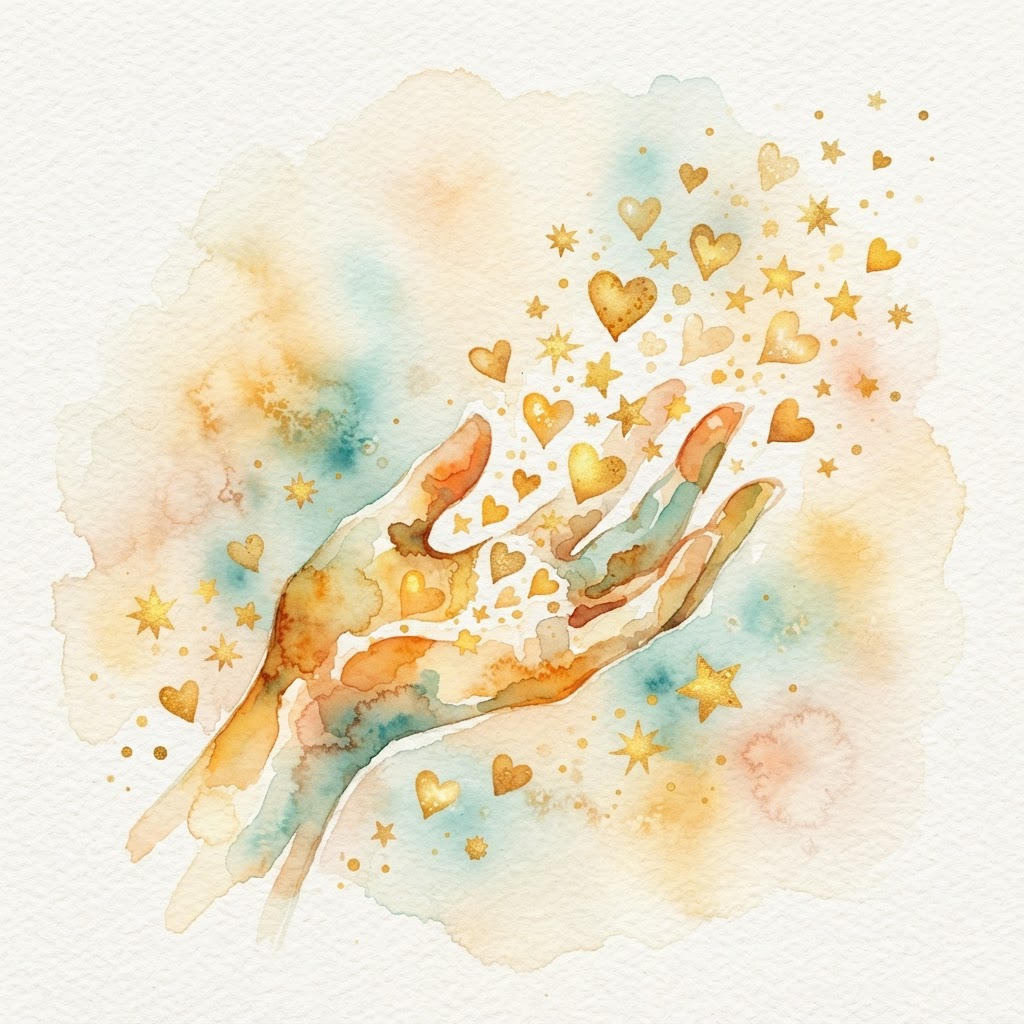
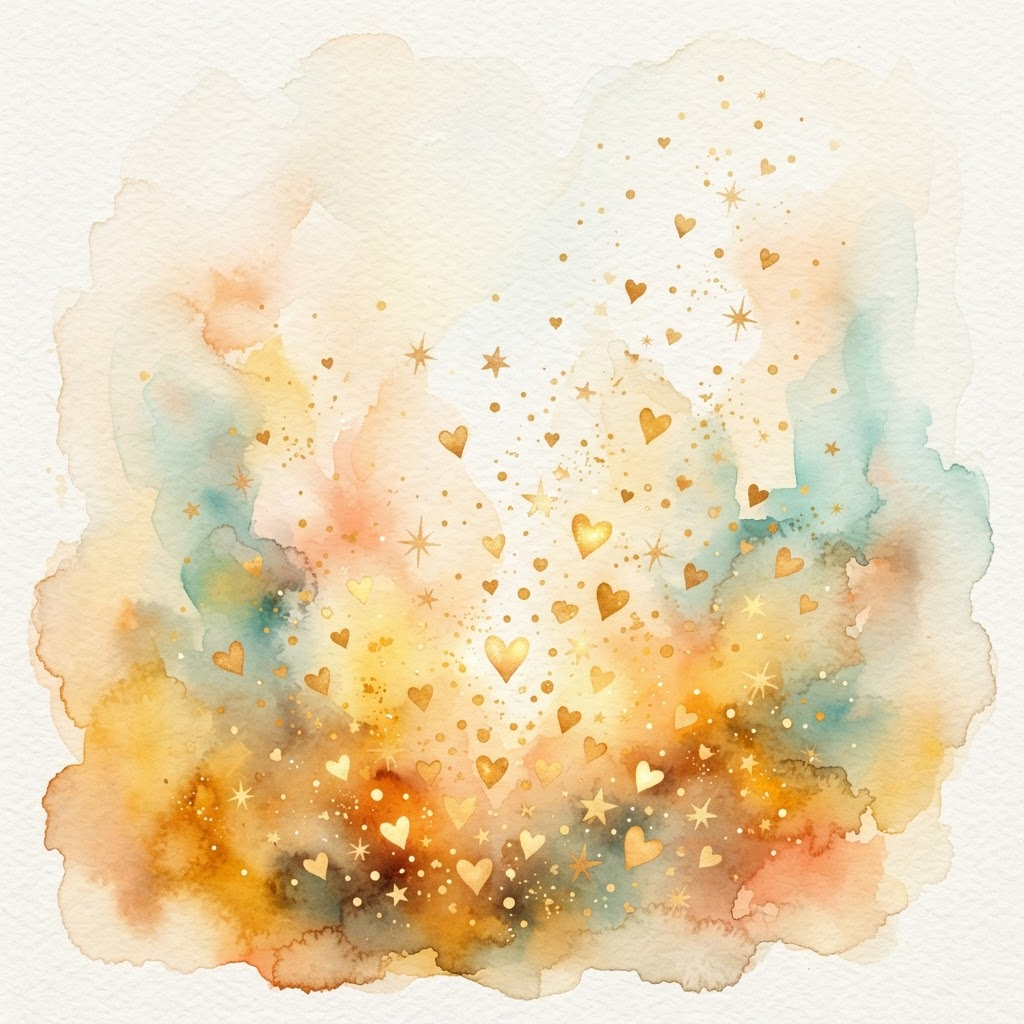
feat: update hadith images to new WC format

diff --git a/lib/data/hadiths.ts b/lib/data/hadiths.ts
@@ -383,7 +383,7 @@ export const hadiths: Hadith[] = [
     id: 'drinking-manners',
     title: 'Этикет питья',
     readingTime: '2 мин',
-    image: '/images/hadiths/good-manners.jpg',
+    image: '/images/hadiths/wc-drinking-manners.png',
     hadithText: 'Абу Къатада (да будет доволен им Аллах) передаёт, что пророк ﷺ сказал: «Когда кто-либо из вас будет пить, пусть не дышит в сосуд».',
     explanation: 'Ислам учит нас даже правилам питья. Когда пьёшь, не нужно дышать прямо в стакан — лучше отодвинуть его. Это чисто и красиво, а также защищает от передачи болезней. Это касается любых напитков, не только воды.',
     source: 'Аль-Бухари, Муслим'
@@ -392,7 +392,7 @@ export const hadiths: Hadith[] = [
     id: 'eating-manners',
     title: 'Скромность в еде',
     readingTime: '2 мин',
-    image: '/images/hadiths/good-manners.jpg',
+    image: '/images/hadiths/wc-eating-manners.png',
     hadithText: 'Абу Джухайфа (да будет доволен им Аллах) передаёт, что посланник Аллаха ﷺ сказал: «Я во время еды не облокачиваюсь».',
     explanation: 'Пророк ﷺ ел скромно и не облокачивался, как делают те, кто ест слишком много. Это учит нас есть умеренно и не наполнять живот. Скромность в еде — часть хороших манер. Ислам заботится даже о таких мелочах.',
     source: 'Аль-Бухари'
@@ -401,7 +401,7 @@ export const hadiths: Hadith[] = [
     id: 'dua-rain',
     title: 'Дуа при дожде',
     readingTime: '2 мин',
-    image: '/images/hadiths/rain.png',
+    image: '/images/hadiths/wc-dua-rain.png',
     hadithText: 'Аиша (да будет доволен ею Аллах) передаёт, что когда посланник Аллаха ﷺ видел дождь, то говорил: «О Аллах, пусть (этот) дождь принесёт пользу».',
     explanation: 'Пророк ﷺ заботился о людях и, видя дождь, просил, чтобы он был полезным, а не вредным. Это показывает его доброту. Во время дождя хорошо обращаться к Аллаху с мольбой — это время, когда мольба принимается.',
     source: 'Аль-Бухари'
@@ -410,7 +410,7 @@ export const hadiths: Hadith[] = [
     id: 'fire-safety',
     title: 'Безопасность перед сном',
     readingTime: '2 мин',
-    image: '/images/hadiths/fire-safety.png',
+    image: '/images/hadiths/wc-fire-safety.png',
     hadithText: 'Ибн Умар (да будет доволен им Аллах) передаёт, что пророк ﷺ сказал: «Не оставляйте огонь в ваших домах, когда вы спите».',
     explanation: 'Перед сном нужно погасить огонь, чтобы он не причинил вреда. Ислам заботится о безопасности людей и учит беречь себя. Это значит: принимай меры предосторожности, чтобы уберечься от беды. Религия совершенна во всём.',
     source: 'Аль-Бухари, Муслим'
@@ -545,7 +545,7 @@ export const hadithSections: HadithSection[] = [
     id: 'family',
     title: 'Семья, друзья и общество',
     description: 'Родители, родственники и соседи',
-    cover: '/images/hadiths/mother.png',
+    cover: '/images/hadiths/wc-family-cover.png',
     hadithIds: [
       'mother',
       'family-ties',
@@ -557,7 +557,7 @@ export const hadithSections: HadithSection[] = [
     id: 'adab',
     title: 'Адаб каждый день',
     description: 'Хорошие манеры в обычных делах',
-    cover: '/images/hadiths/rain.png',
+    cover: '/images/hadiths/wc-adab-cover.png',
     hadithIds: [
       'drinking-manners',
       'eating-manners',
@@ -569,7 +569,7 @@ export const hadithSections: HadithSection[] = [
     id: 'trials',
     title: 'Испытания и защита',
     description: 'Терпение, здоровье и предостережения',
-    cover: '/images/hadiths/protection.png',
+    cover: '/images/hadiths/wc-trials-cover.png',
     hadithIds: [
       'trials-blessing',
       'intoxicants-haram',
